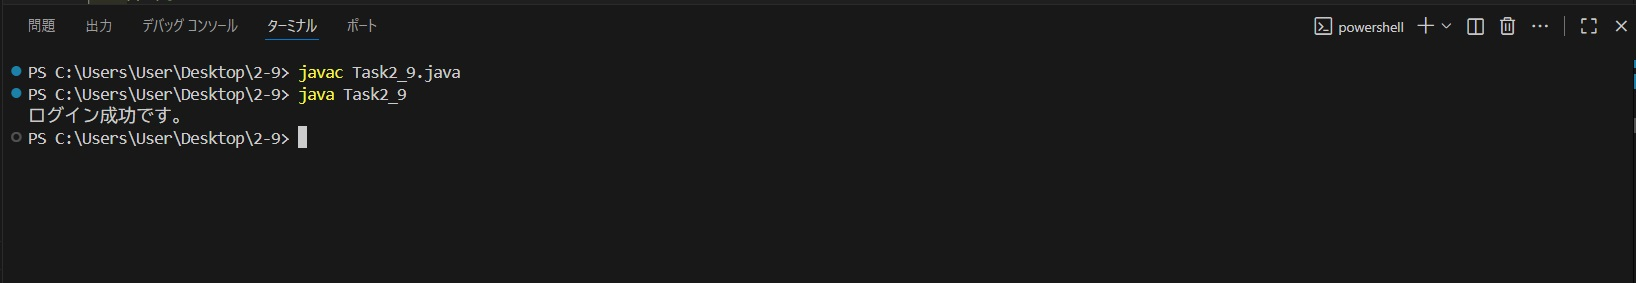
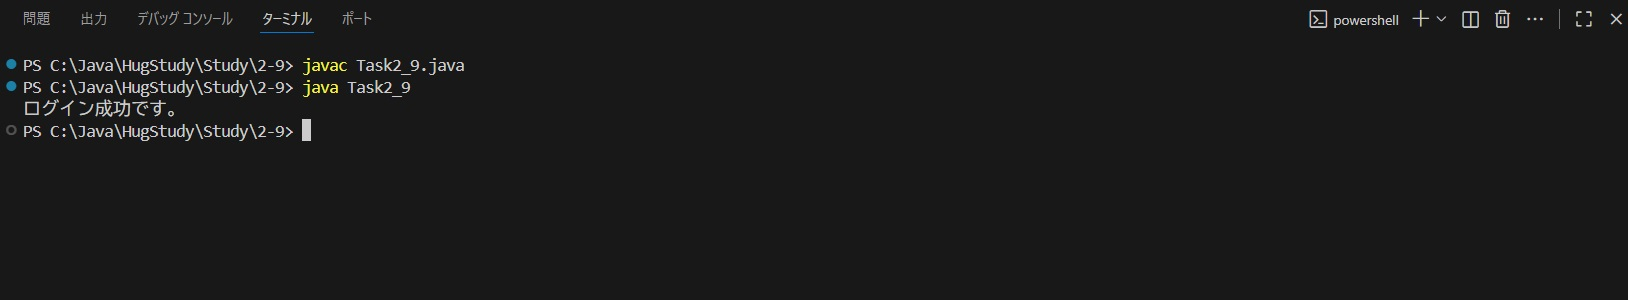
2_9

Changed region(s): [[0.0, 0.1979, 0.3071, 0.5088], [0.7985, 0.0283, 1.0, 0.1413], [0.0, 0.0283, 0.2457, 0.1413]]

diff --git a/Study/2-9/Task2_9.java b/Study/2-9/Task2_9.java
@@ -16,17 +16,17 @@ public class Task2_9 {
     String pass = "alice123";
 
     // 問1
-    if(name == USER_NAME && pass == USER_PASSWORD) {
+    if(name.equals(USER_NAME) && pass.equals(USER_PASSWORD)) {
 
         System.out.println(CONST_MSG_SUCCESS);
 
     // 問２
-    }else if(name == USER_NAME) {
+    }else if(name.equals(USER_NAME)) {
 
         System.out.println(CONST_MSG_ERROR_PASS);
 
     // 問３
-    }else if (pass == USER_PASSWORD) {
+    }else if (pass.equals(USER_PASSWORD)) {
 
         System.out.println(CONST_MSG_ERROR_NAME);
 
